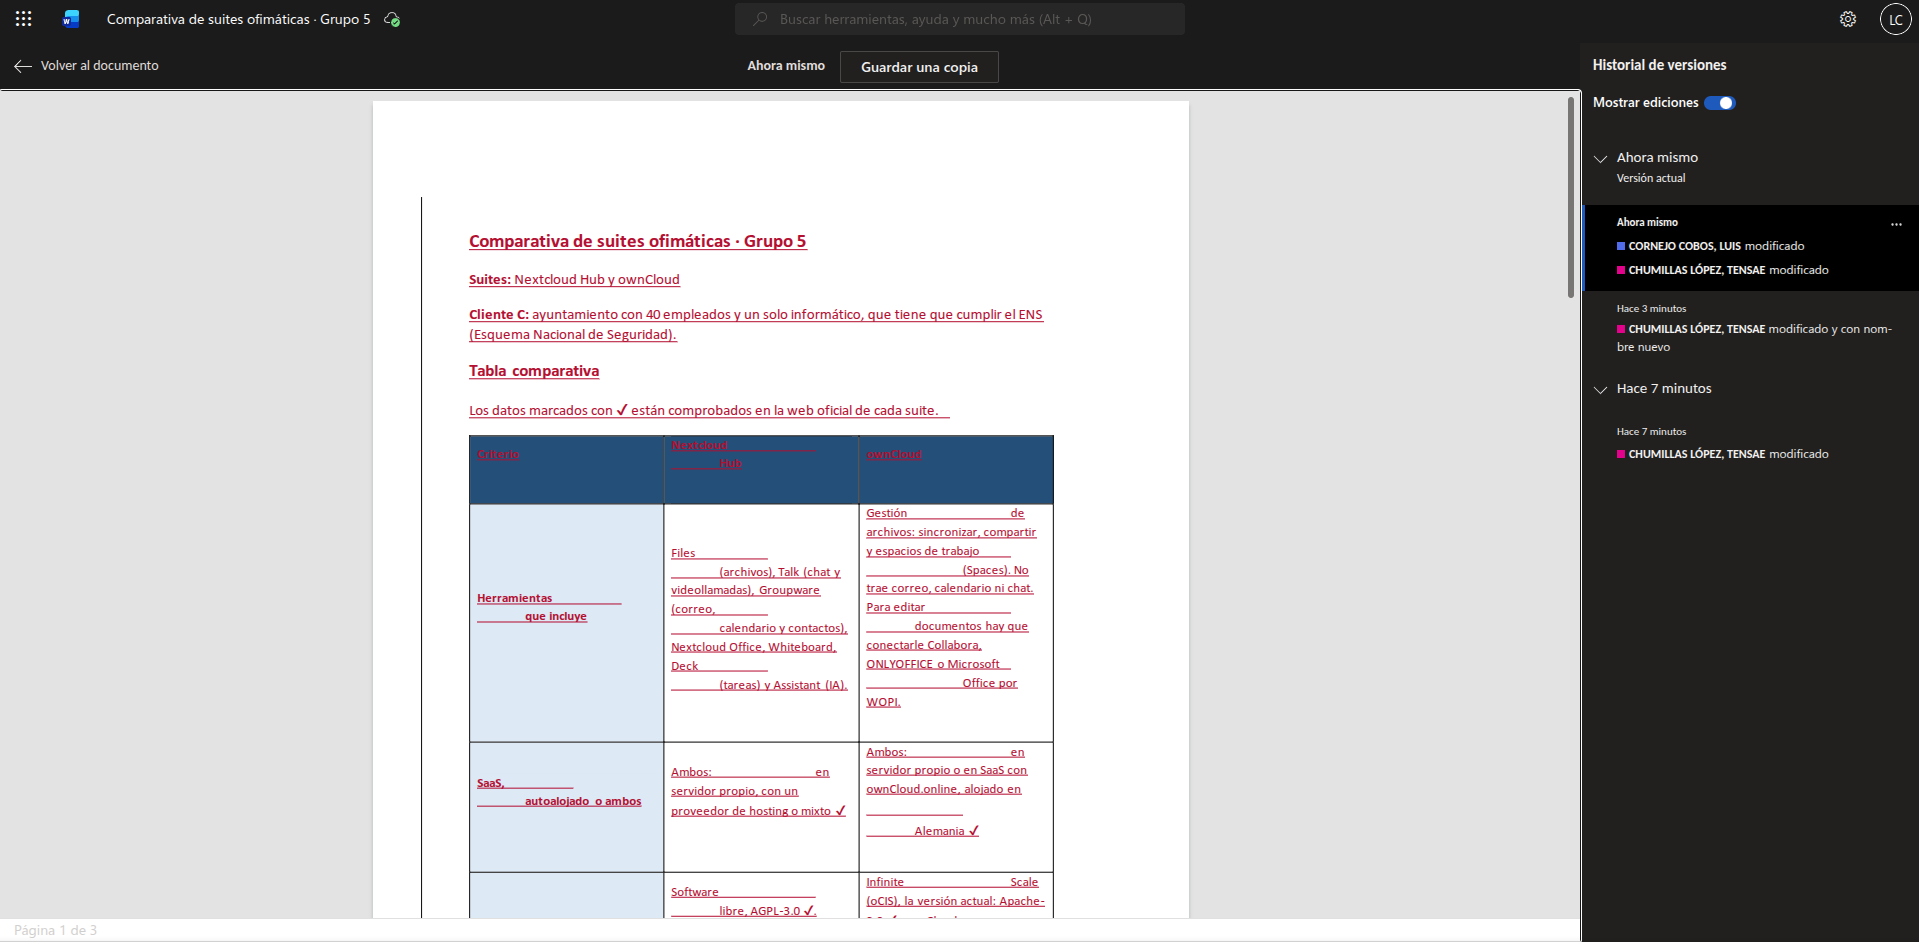
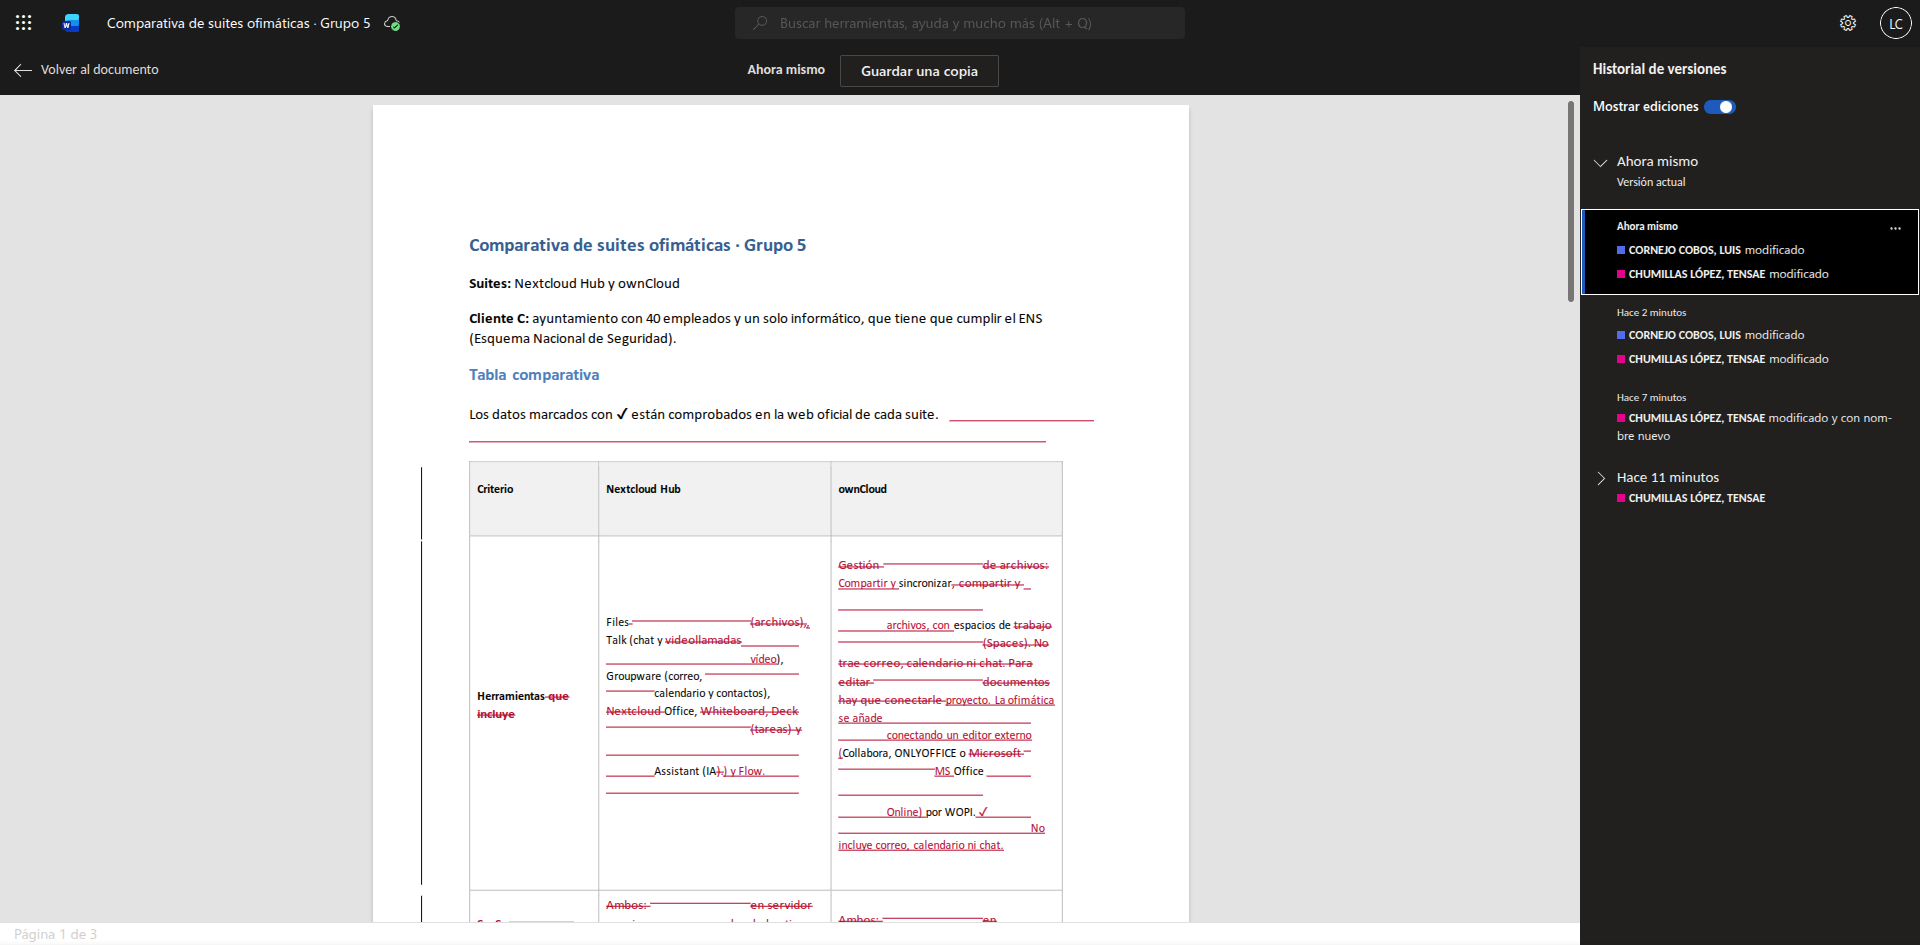
UD4.1b: nueva captura del historial de versiones
Claude-Session: https://claude.ai/code/session_019gMFdhKq2T9zGr5feNqyhW

diff --git a/Ud4/UD4.1_Comparativa/README.md b/Ud4/UD4.1_Comparativa/README.md
@@ -39,13 +39,13 @@ Documento del grupo: [`archivos/Comparativa_Grupo5.docx`](archivos/Comparativa_G
 
 ![Historial de versiones del documento del grupo](img/historial_versiones.png)
 
-**Explicación:** la captura es el historial de versiones del documento del grupo en **Word web (Microsoft 365)**, con la opción *Mostrar ediciones* activada, que subraya en color los cambios.
+**Explicación:** la captura es el historial de versiones del documento del grupo en **Word web (Microsoft 365)**, con la opción *Mostrar ediciones* activada: lo que se añade sale **subrayado** y lo que se borra sale **tachado**.
 
-- **Hace 7 minutos:** Tensae Chumillas López hace la primera edición.
-- **Hace 3 minutos:** Tensae vuelve a modificarlo y le pone el nombre definitivo, *Comparativa de suites ofimáticas · Grupo 5*.
-- **Ahora mismo:** en la misma versión aparecen cambios de **Luis Cornejo Cobos** (azul) y de **Tensae Chumillas López** (rosa).
+- **Hace 11 minutos:** Tensae Chumillas López crea la primera versión del documento.
+- **Hace 7 minutos:** Tensae lo modifica y le pone el nombre definitivo, *Comparativa de suites ofimáticas · Grupo 5*.
+- **Hace 2 minutos y ahora mismo:** en las dos versiones aparecen cambios de **Luis Cornejo Cobos** (azul) y de **Tensae Chumillas López** (rosa). En la tabla se ve cómo reescribimos y corregimos las celdas de *Herramientas*: textos tachados sustituidos por otros subrayados.
 
-Cada autor tiene su color y Word junta sus cambios en una misma versión. Eso demuestra que **trabajamos a la vez sobre un único documento en la nube**, sin enviarnos copias por correo. Además, el historial permite volver a cualquier versión anterior (*Guardar una copia*).
+Cada autor tiene su color y Word junta los cambios de los dos en las mismas versiones. Eso demuestra que **trabajamos a la vez sobre un único documento en la nube**, sin enviarnos copias por correo. Además, el historial permite volver a cualquier versión anterior (*Guardar una copia*).
 
 ---
 
